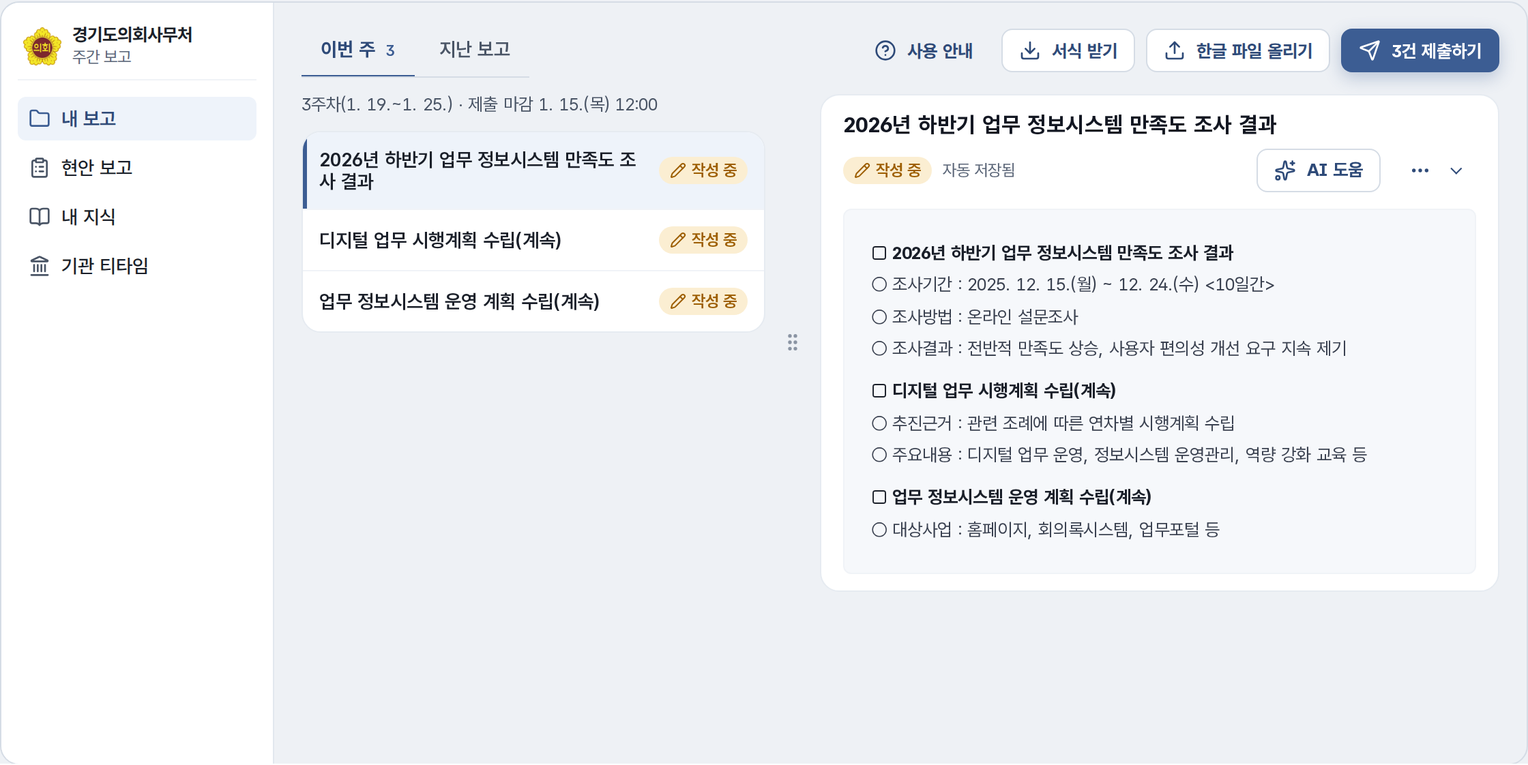
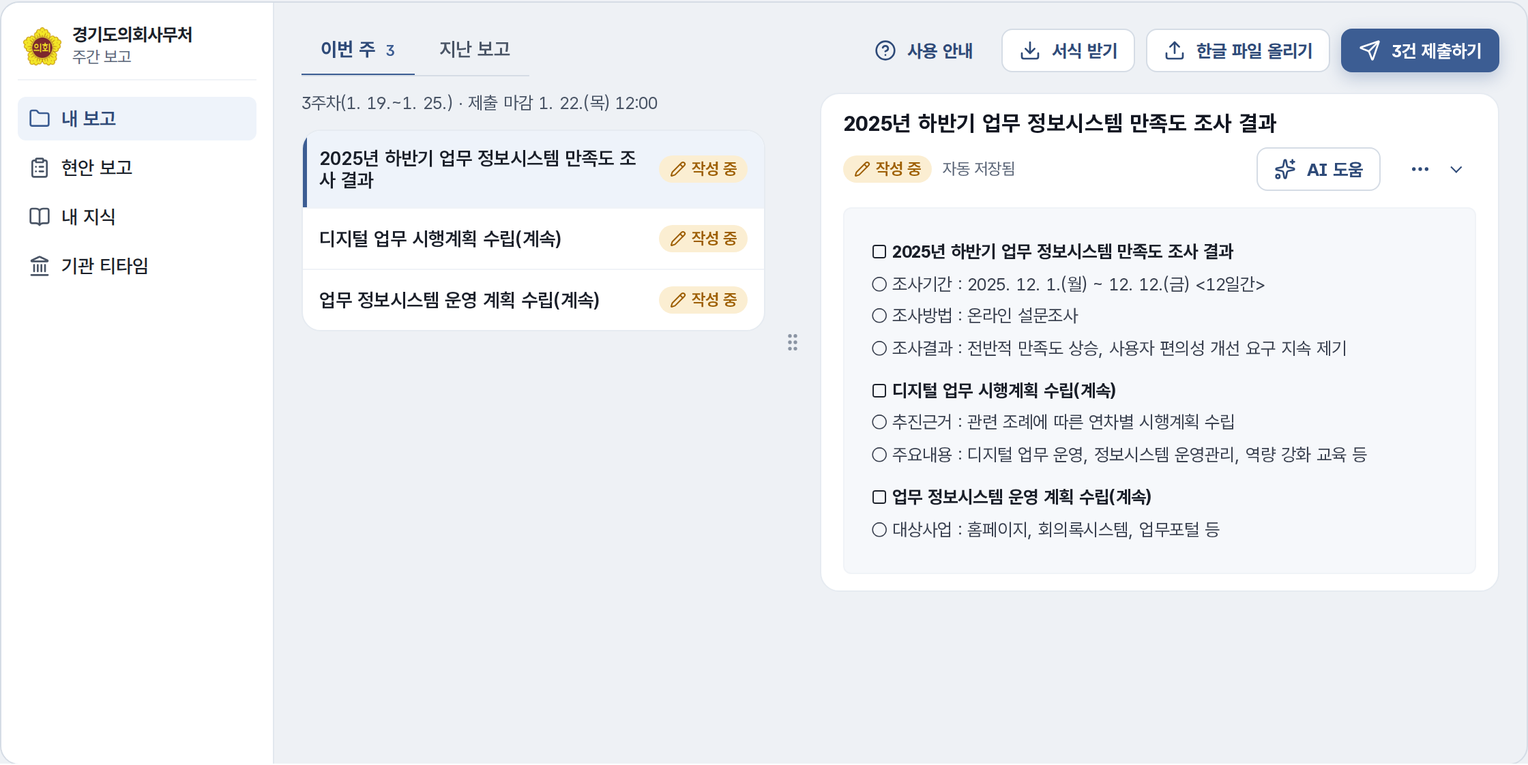
fix(guide): Codex 교차 검토 반영 — 제목 완료 기준 통일 · 조건부 표시 문구 · 재확인 표시는 남김 · 데모 동작 대응
- 간결형을 허용하면서 남아 있던 「h1 은 본문 첫 줄 24px」 완료 기준(계약 ⑪ · 스킬 · page-head)을 「본문에 h1 하나, 간결형은 .ggc-sr」로 통일
- R2: 마감은 일정 판단에 필요하면 한 곳 + 임박 강조, 연결 중·끊김·갱신 지연은 보인다(archetypes Operate 와 맞춤)
- R3·판정 목록·README: 고른 문서와 실행 대상을 확인하는 표시는 남긴다 / 군더더기 6번은 부가정보만 줄인다
- R9: 좁은 화면은 두 영역 전환 + 고른 항목·읽던 위치 유지 · 판정을 화면 비교/실제 조작/담당자 확인으로 나누고 「미확인」 추가
- README·스킬·archetypes·domain-language 요약 문장의 예외(읽기 화면의 주 단추 · 사용 안내의 단계 표시 · KPI 0~4 · 15~20행은 참고)
- less.html: 「후」 ⋯ 에 임시 저장(빠져 있었다) · 이동 표 5·6·10 을 실제 화면과 맞춤 · 단추는 모양뿐임을 밝힘 · 예시 날짜·단위 정리
- README: 「전」은 재구성 예시 · 그림 번호는 less.html 표와 짝 · 내려받는 법 둘로 · 합본 쪽 수

diff --git a/design/examples/examples-standalone.html b/design/examples/examples-standalone.html
@@ -7042,7 +7042,7 @@ body {
 
       <div class="ex-note" style="margin-top:0">
         <p><b>같은 자료로 같은 일을 하는 화면 하나를 두 번 그렸다.</b> 「전」은 실제 서비스에서 사용자가 빼라고 한 것들을 모아 다시 만든 예시다(운영 화면 캡처가 아니다).
-        「후」는 같은 일을 하되 <b>각 정보가 필요한 때에만</b> 보이게 했다. 기능은 하나도 빼지 않았다 — 자리만 옮겼다.
+        「후」는 같은 일을 하되 <b>각 정보가 필요한 때에만</b> 보이게 했다. 단추와 동작은 그대로 두고 자리만 옮겼다(옮긴 곳은 아래 표). 이 예시의 단추·손잡이는 모양만 있고 실제로 동작하지 않는다.
         아래 단추로 바꿔 보고, 「뺀 자리 번호」를 켜면 무엇을 왜 옮겼는지 표의 번호와 맞춰 볼 수 있다. 자료는 전부 가상이다.</p>
       </div>
 
@@ -7093,7 +7093,7 @@ body {
           <div class="lx-band" data-only="before">
             <span class="lx-mark" aria-hidden="true">4</span>
             <svg class="ggc-icon" aria-hidden="true"><use href="#i-calendar"/></svg>
-            <b>3주차 보고</b> 1. 19.~1. 25. · 작성자 제출 마감 1. 15.(목) 12:00
+            <b>3주차 보고</b> 1. 19.~1. 25. · 작성자 제출 마감 1. 22.(목) 12:00
           </div>
 
           <div class="lx-toolbar">
@@ -7111,7 +7111,7 @@ body {
 
           <div class="lx-split">
             <div class="lx-list">
-              <p class="lx-due" data-only="after">3주차(1. 19.~1. 25.) · 제출 마감 1. 15.(목) 12:00</p>
+              <p class="lx-due" data-only="after">3주차(1. 19.~1. 25.) · 제출 마감 1. 22.(목) 12:00</p>
               <div class="lx-card lx-steps" data-only="before">
                 <span class="lx-mark" aria-hidden="true">3</span>
                 <div class="ggc-wizard">
@@ -7144,18 +7144,18 @@ body {
 
               <ul class="lx-rows" aria-label="이번 주 내 보고">
                 <li class="is-selected">
-                  <div class="t">2026년 하반기 업무 정보시스템 만족도 조사 결과</div>
-                  <div class="m" data-only="before"><span class="lx-mark" aria-hidden="true">5</span>3주차 · 1. 19.~1. 25. · 파일 3건 · 다음 · 제출하기</div>
+                  <div class="t">2025년 하반기 업무 정보시스템 만족도 조사 결과</div>
+                  <div class="m" data-only="before"><span class="lx-mark" aria-hidden="true">5</span>3주차 · 1. 19.~1. 25. · 한글 파일 1개 · 다음 · 제출하기</div>
                   <span class="ggc-badge ggc-badge--pending"><svg class="ggc-icon" aria-hidden="true"><use href="#i-pencil"/></svg>작성 중</span>
                 </li>
                 <li>
                   <div class="t">디지털 업무 시행계획 수립(계속)</div>
-                  <div class="m" data-only="before">3주차 · 1. 19.~1. 25. · 파일 3건 · 다음 · 제출하기</div>
+                  <div class="m" data-only="before">3주차 · 1. 19.~1. 25. · 한글 파일 1개 · 다음 · 제출하기</div>
                   <span class="ggc-badge ggc-badge--pending"><svg class="ggc-icon" aria-hidden="true"><use href="#i-pencil"/></svg>작성 중</span>
                 </li>
                 <li>
                   <div class="t">업무 정보시스템 운영 계획 수립(계속)</div>
-                  <div class="m" data-only="before">3주차 · 1. 19.~1. 25. · 파일 3건 · 다음 · 제출하기</div>
+                  <div class="m" data-only="before">3주차 · 1. 19.~1. 25. · 한글 파일 1개 · 다음 · 제출하기</div>
                   <span class="ggc-badge ggc-badge--pending"><svg class="ggc-icon" aria-hidden="true"><use href="#i-pencil"/></svg>작성 중</span>
                 </li>
               </ul>
@@ -7165,7 +7165,7 @@ body {
 
             <div class="lx-doc">
               <div class="lx-dochead">
-                <div class="t">2026년 하반기 업무 정보시스템 만족도 조사 결과</div>
+                <div class="t">2025년 하반기 업무 정보시스템 만족도 조사 결과</div>
                 <div class="lx-docmeta" data-only="before">
                   <span class="lx-mark" aria-hidden="true">6</span>
                   <span class="ggc-badge ggc-badge--pending">작성 중</span>
@@ -7186,6 +7186,7 @@ body {
                   <details class="ggc-menu ggc-menu--end">
                     <summary class="ggc-btn ggc-btn--ghost ggc-btn--sm" aria-label="더보기"><svg class="ggc-icon" aria-hidden="true"><use href="#i-ellipsis"/></svg></summary>
                     <ul class="list" role="menu" aria-label="보고 동작">
+                      <li role="none"><button role="menuitem" type="button">임시 저장</button></li>
                       <li role="none"><button role="menuitem" type="button">행사 등록하기</button></li>
                       <li role="none"><button role="menuitem" type="button">한글 파일로 내려받기</button></li>
                     </ul>
@@ -7193,8 +7194,8 @@ body {
                 </div>
               </div>
               <div class="lx-paper" aria-label="문서 미리보기(예시)">
-                <p class="h">□ 2026년 하반기 업무 정보시스템 만족도 조사 결과</p>
-                <p>○ 조사기간 : 2025. 12. 15.(월) ~ 12. 24.(수) &lt;10일간&gt;</p>
+                <p class="h">□ 2025년 하반기 업무 정보시스템 만족도 조사 결과</p>
+                <p>○ 조사기간 : 2025. 12. 1.(월) ~ 12. 12.(금) &lt;12일간&gt;</p>
                 <p>○ 조사방법 : 온라인 설문조사</p>
                 <p>○ 조사결과 : 전반적 만족도 상승, 사용자 편의성 개선 요구 지속 제기</p>
                 <p class="h">□ 디지털 업무 시행계획 수립(계속)</p>
@@ -7241,12 +7242,12 @@ body {
             <tr><td class="num">2</td><td>목록 머리 「이번 주 내 보고 · 3건 · 제출할 보고가 3건 남았습니다」</td><td>건수는 탭 「이번 주 3」 한 곳</td><td>R3</td></tr>
             <tr><td class="num">3</td><td>처리 단계 막대(서식 받기 → 작성 → 올리기 → 제출)</td><td>상태 배지 「작성 중」 하나 + 지금 할 일 단추 「3건 제출하기」</td><td>R4</td></tr>
             <tr><td class="num">4</td><td>마감을 알리는 상시 띠</td><td>목록 위 한 곳에 짧게(임박할 때만 강조하는 것도 된다)</td><td>R2 · R3</td></tr>
-            <tr><td class="num">5</td><td>목록 줄마다 같은 주차·기간·파일 수·「다음 · 제출하기」</td><td>모든 줄에 같은 값이라 목록 위 한 곳으로 올렸다. 줄에는 제목과 상태만</td><td>R3</td></tr>
-            <tr><td class="num">6</td><td>보기 칸 머리에 목록과 같은 정보 + 긴 설명</td><td>제목 / 상태 · 저장 상태 · 단추 한 줄. 드문 동작(행사 등록)은 ⋯ 안</td><td>R3 · R7</td></tr>
+            <tr><td class="num">5</td><td>목록 줄마다 같은 주차·기간·파일 수·「다음 · 제출하기」</td><td>주차·기간은 모든 줄에 같아 목록 위 한 곳으로 올렸다. 파일 수와 「다음 · 제출하기」는 「3건 제출하기」 단추가 대신 말한다. 줄에는 제목과 상태만</td><td>R3</td></tr>
+            <tr><td class="num">6</td><td>보기 칸 머리에 목록과 같은 부가정보 + 긴 설명</td><td>제목 / 상태 · 저장 상태 · 단추 한 줄로 줄였다(고른 보고가 무엇인지는 남긴다). 드문 동작(임시 저장 · 행사 등록)은 ⋯ 안</td><td>R3 · R7</td></tr>
             <tr><td class="num">7</td><td>두 줄로 흩어진 단추와 설명</td><td>탭과 같은 한 줄. 주 단추는 「3건 제출하기」 하나</td><td>R1 · R7</td></tr>
             <tr><td class="num">8</td><td>늘 펼쳐진 끌어 놓기 영역</td><td>「한글 파일 올리기」 단추 → 창. 끝나면 원래 화면</td><td>R7</td></tr>
             <tr><td class="num">9</td><td>메뉴 옆 숫자와 과별 제출 현황(작성자에게는 쓸 일이 없다)</td><td>메뉴만. 과별 현황은 그 숫자를 쓰는 서무·총괄 화면에</td><td>R2</td></tr>
-            <tr><td class="num">10</td><td>문서 아래 사용법 문장</td><td>「사용 안내」 단추 뒤로. 올리기 창의 입력 조건 한 줄로</td><td>R5</td></tr>
+            <tr><td class="num">10</td><td>문서 아래 사용법 문장</td><td>사용법은 「사용 안내」 단추 뒤로, 입력 조건은 올리기 창 안 한 줄로. □ 를 지운 보고는 저장할 때 <b>확인 창이 묻는다</b> — 실행 결과 안내는 그 자리에 남는다(R10)</td><td>R5</td></tr>
           </tbody>
         </table>
         </div>

diff --git a/design/examples/less.html b/design/examples/less.html
@@ -162,7 +162,7 @@
 
       <div class="ex-note" style="margin-top:0">
         <p><b>같은 자료로 같은 일을 하는 화면 하나를 두 번 그렸다.</b> 「전」은 실제 서비스에서 사용자가 빼라고 한 것들을 모아 다시 만든 예시다(운영 화면 캡처가 아니다).
-        「후」는 같은 일을 하되 <b>각 정보가 필요한 때에만</b> 보이게 했다. 기능은 하나도 빼지 않았다 — 자리만 옮겼다.
+        「후」는 같은 일을 하되 <b>각 정보가 필요한 때에만</b> 보이게 했다. 단추와 동작은 그대로 두고 자리만 옮겼다(옮긴 곳은 아래 표). 이 예시의 단추·손잡이는 모양만 있고 실제로 동작하지 않는다.
         아래 단추로 바꿔 보고, 「뺀 자리 번호」를 켜면 무엇을 왜 옮겼는지 표의 번호와 맞춰 볼 수 있다. 자료는 전부 가상이다.</p>
       </div>
 
@@ -213,7 +213,7 @@
           <div class="lx-band" data-only="before">
             <span class="lx-mark" aria-hidden="true">4</span>
             <svg class="ggc-icon" aria-hidden="true"><use href="#i-calendar"/></svg>
-            <b>3주차 보고</b> 1. 19.~1. 25. · 작성자 제출 마감 1. 15.(목) 12:00
+            <b>3주차 보고</b> 1. 19.~1. 25. · 작성자 제출 마감 1. 22.(목) 12:00
           </div>
 
           <div class="lx-toolbar">
@@ -231,7 +231,7 @@
 
           <div class="lx-split">
             <div class="lx-list">
-              <p class="lx-due" data-only="after">3주차(1. 19.~1. 25.) · 제출 마감 1. 15.(목) 12:00</p>
+              <p class="lx-due" data-only="after">3주차(1. 19.~1. 25.) · 제출 마감 1. 22.(목) 12:00</p>
               <div class="lx-card lx-steps" data-only="before">
                 <span class="lx-mark" aria-hidden="true">3</span>
                 <div class="ggc-wizard">
@@ -264,18 +264,18 @@
 
               <ul class="lx-rows" aria-label="이번 주 내 보고">
                 <li class="is-selected">
-                  <div class="t">2026년 하반기 업무 정보시스템 만족도 조사 결과</div>
-                  <div class="m" data-only="before"><span class="lx-mark" aria-hidden="true">5</span>3주차 · 1. 19.~1. 25. · 파일 3건 · 다음 · 제출하기</div>
+                  <div class="t">2025년 하반기 업무 정보시스템 만족도 조사 결과</div>
+                  <div class="m" data-only="before"><span class="lx-mark" aria-hidden="true">5</span>3주차 · 1. 19.~1. 25. · 한글 파일 1개 · 다음 · 제출하기</div>
                   <span class="ggc-badge ggc-badge--pending"><svg class="ggc-icon" aria-hidden="true"><use href="#i-pencil"/></svg>작성 중</span>
                 </li>
                 <li>
                   <div class="t">디지털 업무 시행계획 수립(계속)</div>
-                  <div class="m" data-only="before">3주차 · 1. 19.~1. 25. · 파일 3건 · 다음 · 제출하기</div>
+                  <div class="m" data-only="before">3주차 · 1. 19.~1. 25. · 한글 파일 1개 · 다음 · 제출하기</div>
                   <span class="ggc-badge ggc-badge--pending"><svg class="ggc-icon" aria-hidden="true"><use href="#i-pencil"/></svg>작성 중</span>
                 </li>
                 <li>
                   <div class="t">업무 정보시스템 운영 계획 수립(계속)</div>
-                  <div class="m" data-only="before">3주차 · 1. 19.~1. 25. · 파일 3건 · 다음 · 제출하기</div>
+                  <div class="m" data-only="before">3주차 · 1. 19.~1. 25. · 한글 파일 1개 · 다음 · 제출하기</div>
                   <span class="ggc-badge ggc-badge--pending"><svg class="ggc-icon" aria-hidden="true"><use href="#i-pencil"/></svg>작성 중</span>
                 </li>
               </ul>
@@ -285,7 +285,7 @@
 
             <div class="lx-doc">
               <div class="lx-dochead">
-                <div class="t">2026년 하반기 업무 정보시스템 만족도 조사 결과</div>
+                <div class="t">2025년 하반기 업무 정보시스템 만족도 조사 결과</div>
                 <div class="lx-docmeta" data-only="before">
                   <span class="lx-mark" aria-hidden="true">6</span>
                   <span class="ggc-badge ggc-badge--pending">작성 중</span>
@@ -306,6 +306,7 @@
                   <details class="ggc-menu ggc-menu--end">
                     <summary class="ggc-btn ggc-btn--ghost ggc-btn--sm" aria-label="더보기"><svg class="ggc-icon" aria-hidden="true"><use href="#i-ellipsis"/></svg></summary>
                     <ul class="list" role="menu" aria-label="보고 동작">
+                      <li role="none"><button role="menuitem" type="button">임시 저장</button></li>
                       <li role="none"><button role="menuitem" type="button">행사 등록하기</button></li>
                       <li role="none"><button role="menuitem" type="button">한글 파일로 내려받기</button></li>
                     </ul>
@@ -313,8 +314,8 @@
                 </div>
               </div>
               <div class="lx-paper" aria-label="문서 미리보기(예시)">
-                <p class="h">□ 2026년 하반기 업무 정보시스템 만족도 조사 결과</p>
-                <p>○ 조사기간 : 2025. 12. 15.(월) ~ 12. 24.(수) &lt;10일간&gt;</p>
+                <p class="h">□ 2025년 하반기 업무 정보시스템 만족도 조사 결과</p>
+                <p>○ 조사기간 : 2025. 12. 1.(월) ~ 12. 12.(금) &lt;12일간&gt;</p>
                 <p>○ 조사방법 : 온라인 설문조사</p>
                 <p>○ 조사결과 : 전반적 만족도 상승, 사용자 편의성 개선 요구 지속 제기</p>
                 <p class="h">□ 디지털 업무 시행계획 수립(계속)</p>
@@ -361,12 +362,12 @@
             <tr><td class="num">2</td><td>목록 머리 「이번 주 내 보고 · 3건 · 제출할 보고가 3건 남았습니다」</td><td>건수는 탭 「이번 주 3」 한 곳</td><td>R3</td></tr>
             <tr><td class="num">3</td><td>처리 단계 막대(서식 받기 → 작성 → 올리기 → 제출)</td><td>상태 배지 「작성 중」 하나 + 지금 할 일 단추 「3건 제출하기」</td><td>R4</td></tr>
             <tr><td class="num">4</td><td>마감을 알리는 상시 띠</td><td>목록 위 한 곳에 짧게(임박할 때만 강조하는 것도 된다)</td><td>R2 · R3</td></tr>
-            <tr><td class="num">5</td><td>목록 줄마다 같은 주차·기간·파일 수·「다음 · 제출하기」</td><td>모든 줄에 같은 값이라 목록 위 한 곳으로 올렸다. 줄에는 제목과 상태만</td><td>R3</td></tr>
-            <tr><td class="num">6</td><td>보기 칸 머리에 목록과 같은 정보 + 긴 설명</td><td>제목 / 상태 · 저장 상태 · 단추 한 줄. 드문 동작(행사 등록)은 ⋯ 안</td><td>R3 · R7</td></tr>
+            <tr><td class="num">5</td><td>목록 줄마다 같은 주차·기간·파일 수·「다음 · 제출하기」</td><td>주차·기간은 모든 줄에 같아 목록 위 한 곳으로 올렸다. 파일 수와 「다음 · 제출하기」는 「3건 제출하기」 단추가 대신 말한다. 줄에는 제목과 상태만</td><td>R3</td></tr>
+            <tr><td class="num">6</td><td>보기 칸 머리에 목록과 같은 부가정보 + 긴 설명</td><td>제목 / 상태 · 저장 상태 · 단추 한 줄로 줄였다(고른 보고가 무엇인지는 남긴다). 드문 동작(임시 저장 · 행사 등록)은 ⋯ 안</td><td>R3 · R7</td></tr>
             <tr><td class="num">7</td><td>두 줄로 흩어진 단추와 설명</td><td>탭과 같은 한 줄. 주 단추는 「3건 제출하기」 하나</td><td>R1 · R7</td></tr>
             <tr><td class="num">8</td><td>늘 펼쳐진 끌어 놓기 영역</td><td>「한글 파일 올리기」 단추 → 창. 끝나면 원래 화면</td><td>R7</td></tr>
             <tr><td class="num">9</td><td>메뉴 옆 숫자와 과별 제출 현황(작성자에게는 쓸 일이 없다)</td><td>메뉴만. 과별 현황은 그 숫자를 쓰는 서무·총괄 화면에</td><td>R2</td></tr>
-            <tr><td class="num">10</td><td>문서 아래 사용법 문장</td><td>「사용 안내」 단추 뒤로. 올리기 창의 입력 조건 한 줄로</td><td>R5</td></tr>
+            <tr><td class="num">10</td><td>문서 아래 사용법 문장</td><td>사용법은 「사용 안내」 단추 뒤로, 입력 조건은 올리기 창 안 한 줄로. □ 를 지운 보고는 저장할 때 <b>확인 창이 묻는다</b> — 실행 결과 안내는 그 자리에 남는다(R10)</td><td>R5</td></tr>
           </tbody>
         </table>
         </div>

diff --git a/design/examples/build-shots.py b/design/examples/build-shots.py
@@ -54,7 +54,7 @@ SHOTS = [
     ("screen-operate",     "operate.html",                    "#op-screen", (1440, 900), "Operate 실시간 시청 — 영상 아래 자막 · 탭으로 나눠 쓰기 · 지금 발언"),
     # 컴포넌트 — 갤러리 데모 상자를 그대로 잘라낸다
     ("gnb-page",   "components-nav.html",     "#d-gnbpage",   (1440, 900), "GNB 경로부 `.ggc-gnb-page` (브레드크럼 — 제목은 본문)"),
-    ("page-head",  "components-nav.html",     "#d-head",      (1440, 900), "페이지 헤더 `.ggc-page-head` — h1 24px + 설명 + 주 액션"),
+    ("page-head",  "components-nav.html",     "#d-head",      (1440, 900), "페이지 헤더 `.ggc-page-head` — 기본형(제목 보임) · 설명과 주 단추는 필요할 때만"),
     ("buttons",    "components.html",         "#d-btn",       (1440, 900), "버튼 `.ggc-btn`"),
     ("badges",     "components.html",         "#d-badge",     (1440, 900), "배지 · 태그 `.ggc-badge` `.ggc-tag`"),
     ("cards",      "components.html",         "#d-card",      (1440, 900), "카드 `.ggc-card`"),

diff --git a/docs/guides/less.md b/docs/guides/less.md
@@ -20,7 +20,8 @@
 
 ## 규칙 10개
 
-각 규칙에 **판정법**이 있다 — 사람이 화면을 보고 확인하는 방법이다. 검사기로 만들지 않는다.
+각 규칙에 **판정법**이 있다 — 사람이 확인하는 방법이다. 검사기로 만들지 않는다.
+판정은 셋으로 나눈다 — **화면 비교**(정지 화면으로 되는 것: R3 · R5 · R8) · **실제 조작**(상태 바꾸기 · 키보드 · 실패: R6 · R7 · R9 · R10) · **업무 담당자 확인**(누가 무엇을 하러 오나 · 실제 처리 상태: R1 · R2 · R4). 확인하지 못한 항목은 「미확인」으로 적는다.
 
 ### R1. 핵심 일과 먼저 누를 단추를 정한다
 - 가장 강조하는 단추(`.ggc-btn--primary`)는 그 화면의 지금 맥락에서 **하나**다.
@@ -30,14 +31,14 @@
 ### R2. 정보는 쓰임이 확인될 때 보인다
 - 제목 아래 설명 · 요약 숫자 · 메타정보 · 보조 패널 · 인사말은 **기본 구성이 아니다.**
 - 그 정보로 사용자가 무엇을 고르고·비교하고·확인하고·처리하는지 말할 수 있을 때 둔다.
-- 늘 볼 필요가 없는 정보는 **조건이 될 때만** 나타난다 — 마감은 임박했을 때, 연결 상태는 끊겼을 때, 새 알림은 있을 때.
+- 늘 볼 필요가 없는 정보는 **조건이 될 때 나타나거나 강조된다** — 마감은 일정 판단에 필요하면 한 곳에 두고 임박하면 강조한다. 연결 중 · 끊김 · 갱신 지연처럼 **내용을 믿을 수 있는지에 영향을 주는 상태는 보인다**(정상일 때만 숨긴다). 새 알림은 있을 때만.
 - 역할마다 필요한 것이 다르면 보이는 것도 다르다. 단, 화면에서 감추는 것으로 권한을 대신하지 않는다.
 - **판정**: 그 영역을 가리고 대표 일을 따라가 본다. 판단이나 처리가 달라지지 않으면 뺄 후보다.
 
 ### R3. 같은 맥락의 정보는 한 곳에만
 - 같은 범위의 기간·건수·상태·담당을 머리·띠·목록 줄·보기 칸에 되풀이하지 않는다.
 - 모든 행에 같은 값이 있으면 그 값은 목록 위 한 곳으로 올린다.
-- 따로 읽히는 곳(확인 창·인쇄물·내려받은 문서)에는 다시 적어도 된다.
+- 따로 읽히는 곳(확인 창·인쇄물·내려받은 문서)에는 다시 적어도 된다. **선택한 문서와 실행 대상을 확인하는 표시**(골라 둔 보고의 제목·상태, 「3건 제출하기」의 건수)는 남긴다.
 - **판정**: 화면에서 같은 뜻의 글자를 형광펜으로 칠해 본다. 두 번 칠해지면 각 자리에 따로 확인할 이유가 있는지 묻는다.
 
 ### R4. 상태는 정확한 짧은 말로, 그림은 한 번만
@@ -72,7 +73,7 @@
 - **판정**: 긴 제목이 든 대표 자료로 첫 화면을 찍는다. 첫 결과의 식별 정보가 읽히는가. 행 수를 늘리려고 글자·조작부를 줄인 흔적은 없는가.
 
 ### R9. 함께 대조하는 자료는 함께 보이게
-- 목록을 고르며 문서를 확인하는 일은 **목록 + 문서 보기** 두 칸으로 둔다. 경계는 사용자가 끌어 바꿀 수 있고(키보드로도), 바꾼 폭은 기억하되 다음 방문에 칸이 사라지지 않게 한다.
+- 목록을 고르며 문서를 확인하는 일은 넓은 화면에서 **목록 + 문서 보기** 두 칸으로 둔다. 좁은 화면에서는 두 영역을 전환하되 고른 항목과 읽던 위치를 유지한다. 경계는 사용자가 끌어 바꿀 수 있고(키보드로도), 바꾼 폭은 기억하되 다음 방문에 칸이 사라지지 않게 한다.
 - 문서의 서식이 판단 대상이면 글자만이 아니라 **실제 문서 모양**을 보여 준다. 넓은 화면의 남는 폭은 작업 칸에 준다.
 - **판정**: 긴 목록과 긴 문서를 함께 열고, 확인을 위해 화면을 왕복하는지 본다.
 
@@ -91,9 +92,9 @@
 | 1 | 제목 아래 설명 문장("…을 한눈에 확인합니다") | 없앤다. 필요하면 해당 단추 옆에 조건 한 줄 | R2 · R5 |
 | 2 | 제목을 지운 뒤 남은 빈 띠 | 빈 공간까지 없앤다 | R6 |
 | 3 | 처리 단계 막대(전→지금→다음) | 상태 배지 하나 + 지금 할 일 단추 | R4 |
-| 4 | 마감·기간을 알리는 상시 띠 | 목록 위 한 곳, 또는 임박했을 때만 | R2 · R3 |
+| 4 | 마감·기간을 알리는 상시 띠 | 목록 위 한 곳에 짧게, 임박하면 강조 | R2 · R3 |
 | 5 | 목록 줄마다 반복되는 같은 주차·기간·파일 수 | 목록 위 한 곳으로 올린다 | R3 |
-| 6 | 보기 칸 머리에 목록 줄과 같은 정보 반복 | 보기 칸에는 제목·상태·단추만 | R3 |
+| 6 | 보기 칸 머리에 목록 줄과 같은 부가정보·설명 반복 | 중복된 부가정보만 줄인다 — 제목 · 상태 · 저장 상태 · 오류 · 출처 · 단추는 남긴다 | R3 · R10 |
 | 7 | 두세 줄로 흩어진 단추·검색·거르기 | 한 줄에 모은다(넘치면 줄바꿈, 자주 쓰는 것은 숨기지 않음) | R7 |
 | 8 | 늘 펼쳐진 파일 올리기 영역·작업 패널 | 이름 있는 단추 → 창 | R7 |
 | 9 | 왼쪽 메뉴 옆 숫자·과별 현황·접속자 수 같은 상시 숫자 | 처리할 건이 있을 때만, 또는 그 숫자를 쓰는 사람에게만 | R2 |
@@ -126,11 +127,11 @@ ADR 0010 의 구조(h1 은 본문, 브레드크럼은 헤더)는 그대로다. *
 
 ## 판정 목록 — 화면마다
 
-`design-decisions.md` 의 「덜어내기 판정」 절에 **적용 · 미적용 · 해당 없음**으로 적는다. 개수로 합격을 정하지 않는다.
+`design-decisions.md` 의 「덜어내기 판정」 절에 **적용 · 미적용 · 해당 없음 · 미확인**으로 적는다. 개수로 합격을 정하지 않는다.
 
 - [ ] 이 화면을 쓰는 사람과 핵심 일을 한 줄로 적었다
 - [ ] 가장 강조한 단추가 하나다(읽기·시청 화면은 없어도 된다)
-- [ ] 같은 뜻의 글자가 두 번 이상 보이지 않는다(따로 읽히는 곳 제외)
+- [ ] 같은 정보가 두 번 보이면 각 자리에서 확인할 이유가 있다(선택 확인 · 실행 대상 · 따로 읽히는 곳)
 - [ ] 제목 아래 설명 줄·상시 안내 띠가 없다 — 있으면 그 쓰임을 적었다
 - [ ] 단계 막대는 사용자가 단계를 오가는 입력·사용 안내에만 있다
 - [ ] 검색·조건·주요 단추가 한 줄(넓은 화면)이고, 자주 쓰는 동작이 ⋯ 안에 없다

diff --git a/skills/ggc-design/references/archetypes.md b/skills/ggc-design/references/archetypes.md
@@ -24,7 +24,7 @@
 
 ## Monitor
 
-**판정** — 여러 상태를 함께 확인해야 하는 일. KPI 타일 행이 있고 테이블이 없다. 배타: 스티키 액션바가 있으면 Configure 다.
+**판정** — 여러 상태를 함께 확인하는 화면이다. KPI(요약 숫자)는 판단에 필요할 때만 0~4개 두고, 테이블은 두지 않는다. 배타: 스티키 액션바가 있으면 Configure 다.
 **서비스의 첫 화면이 곧 Monitor 는 아니다**(v3.1) — 첫 화면은 사용자가 가장 자주 시작하는 일로 정한다.
 작성이 중심인 서비스에서 사용자가 "대시보드가 필요 없어. 메인 화면에는 그냥 작성으로"라고 한 사례가 있다.
 **격자** — `.ggc-shell-main` (1320px). 하단 `1fr 320px` 2열, `align-items: start`.

diff --git a/docs/components/page-head.md b/docs/components/page-head.md
@@ -39,7 +39,7 @@
 - **인사말을 두지 않는다**(v3.1). h1 으로도 설명으로도 쓰지 않는다.
 - **제목 표시는 화면군마다 기본형 또는 간결형**(v3.1) — 간결형은 h1 을 `.ggc-sr` 로 남기고 이 줄을 통째로 없앤다. 조건은 [guides/less.md](../guides/less.md) 「제목」.
 - 버튼의 기호(＋ ← →)는 lucide 아이콘으로 — [guides/icons.md](../guides/icons.md).
-- ≤480px 에서 h1 은 `--ggc-text-xl`(20)로 줄어든다. 숨기지 않는다.
+- ≤480px 에서 기본형 h1 은 `--ggc-text-xl`(20)로 줄어든다. 좁다고 숨기지 않는다 — 간결형은 화면군 단위로 고르고, 좁은 화면에서도 현재 화면 이름이 계속 보일 때만 쓴다.
 
 ## 프로필
 
